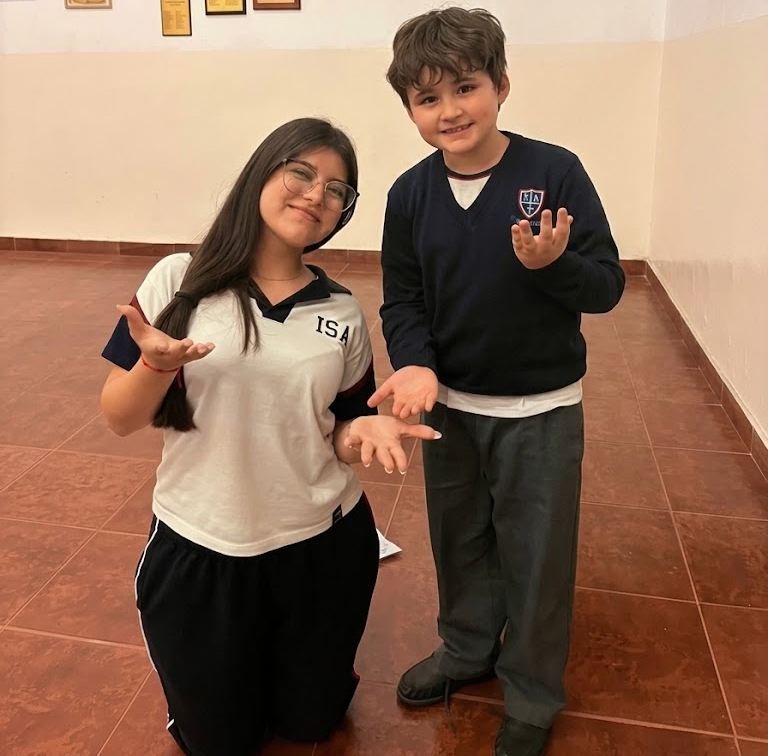
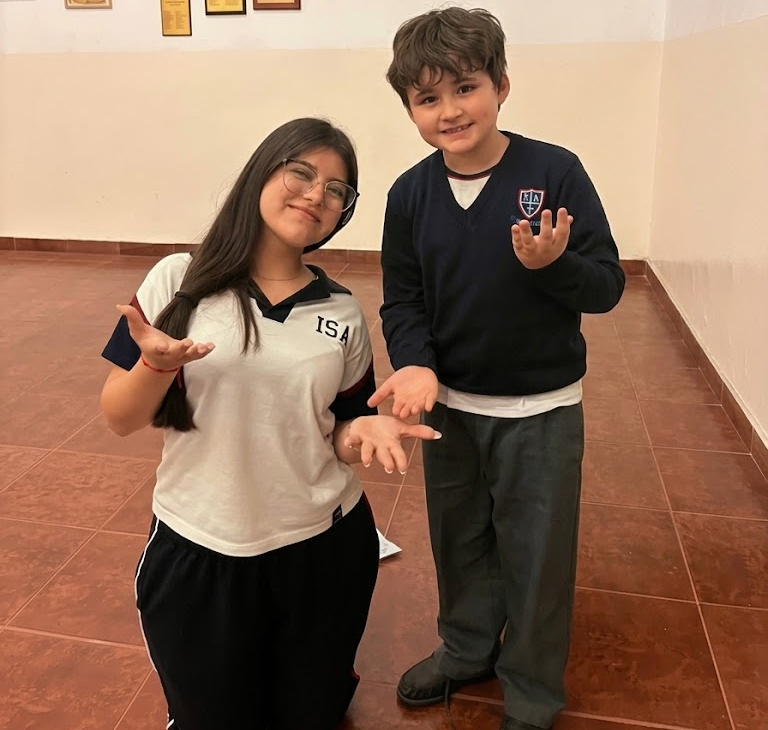
Noticias test

diff --git a/src/components/noticias/NoticiaDetalle.jsx b/src/components/noticias/NoticiaDetalle.jsx
@@ -1,18 +1,31 @@
 import React from 'react';
 import { useParams, Link } from 'react-router-dom';
-
-import Noticia1 from '../assets/images/landing/noticias/noticia-1.png';
-import Noticia2 from '../assets/images/landing/noticias/noticia-2.png';
-import Noticia3 from '../assets/images/landing/noticias/noticia-3.png';
-import Noticia4 from '../assets/images/landing/noticias/noticia-4.png';
-
 import noticiasData from '../../data/noticias.json';
 
-const imagenesNoticiasMap = {
-  noticia1: Noticia1,
-  noticia2: Noticia2,
-  noticia3: Noticia3,
-  noticia4: Noticia4,
+// Imágenes principales (portada / tarjeta)
+import Noticia1Img from '../assets/images/landing/noticias/noticia-1.png';
+import Noticia2Img from '../assets/images/landing/noticias/noticia-2.png';
+import Noticia3Img from '../assets/images/landing/noticias/noticia-3.png';
+import Noticia4Img from '../assets/images/landing/noticias/noticia-4.png';
+
+// Imágenes extra para el interior del texto
+import Extra1Img from '../assets/images/landing/noticias/extra-1.png';
+import Extra2Img from '../assets/images/landing/noticias/extra-2.png';
+import Extra3Img from '../assets/images/landing/noticias/extra-3.png';
+import Extra4Img from '../assets/images/landing/noticias/extra-4.png';
+
+const imagenesMap = {
+  noticia1: Noticia1Img,
+  noticia2: Noticia2Img,
+  noticia3: Noticia3Img,
+  noticia4: Noticia4Img,
+};
+
+const imagenesExtraMap = {
+  extra1: Extra1Img,
+  extra2: Extra2Img,
+  extra3: Extra3Img,
+  extra4: Extra4Img,
 };
 
 const crearSlug = (texto) => {
@@ -28,51 +41,73 @@ const crearSlug = (texto) => {
 const NoticiaDetalle = () => {
   const { slug } = useParams();
   
-  const noticia = noticiasData.find((item) => crearSlug(item.titulo) === slug);
+  const noticia = noticiasData.find((n) => crearSlug(n.titulo) === slug);
 
   if (!noticia) {
     return (
-      <div className="container py-5 text-center">
-        <h2>No se encontró la noticia solicitada</h2>
-        <Link to="/" className="btn btn-primary mt-3">
-          Volver al inicio
+      <div className="container my-5 text-center">
+        <h3 className="text-secondary">Noticia no encontrada</h3>
+        <Link to="/noticias" className="btn btn-primary mt-3" style={{ backgroundColor: '#334779', border: 'none' }}>
+          Volver a noticias
         </Link>
       </div>
     );
   }
 
-  const imagenSrc = imagenesNoticiasMap[noticia.imagenKey];
-
   return (
-    <div className="container py-5 my-4">
+    <div className="container my-5" style={{ maxWidth: '800px' }}>
+      <Link to="/noticias" className="btn btn-outline-secondary mb-4 btn-sm rounded-pill px-3">
+        ← Volver a noticias
+      </Link>
+
       <div className="mb-4">
-        <Link to="/noticias" className="btn btn-outline-secondary btn-sm">
-          &larr; Volver a noticias
-        </Link>
+        <span className="text-muted small">{noticia.fecha}</span>
+        <h1 className="fw-bold display-6 mt-1" style={{ color: '#334779' }}>{noticia.titulo}</h1>
       </div>
 
-      <div className="row align-items-center g-5">
-        {imagenSrc && (
-          <div className="col-lg-6 text-center">
-            <div className="p-2 bg-light rounded shadow-sm border">
-              <img 
-                src={imagenSrc} 
-                alt={noticia.titulo} 
-                className="img-fluid rounded" 
-                style={{ maxHeight: '500px', width: '100%', objectFit: 'contain' }}
-              />
-            </div>
-          </div>
-        )}
+      {/* Imagen Principal - Altura ampliada en PC (550px) */}
+      <div className="mb-4 rounded-3 overflow-hidden shadow-sm noticia-img-detalle-pc">
+        <img 
+          src={imagenesMap[noticia.imagenKey]} 
+          alt={noticia.titulo} 
+          className="w-100 object-fit-cover" 
+          style={{ height: '550px' }}
+        />
+      </div>
 
-        <div className={`col-lg-${imagenSrc ? '6' : '12'}`}>
-          <h1 className="fw-bold mb-4 text-dark">{noticia.titulo}</h1>
-          
-          <div className="noticia-contenido text-muted fs-6 lh-lg">
-            <p className="fw-semibold fs-5 text-dark mb-3">{noticia.resumen}</p>
-            {noticia.contenido && <p>{noticia.contenido}</p>}
-          </div>
-        </div>
+      {/* Recorrido de bloques de contenido */}
+      <div className="cuerpo-noticia">
+        {noticia.contenido.map((bloque, index) => {
+          if (bloque.tipo === 'parrafo') {
+            return (
+              <p key={index} className="text-secondary mb-4" style={{ fontSize: '1.05rem', lineHeight: '1.7' }}>
+                {bloque.texto}
+              </p>
+            );
+          }
+
+          if (bloque.tipo === 'imagen') {
+            return (
+              <figure key={index} className="my-5 text-center">
+                <div className="rounded-3 overflow-hidden shadow-sm mb-2 noticia-img-detalle-pc">
+                  <img 
+                    src={imagenesExtraMap[bloque.url]} 
+                    alt={bloque.caption || 'Imagen interior'} 
+                    className="w-100 object-fit-cover" 
+                    style={{ height: '500px' }}
+                  />
+                </div>
+                {bloque.caption && (
+                  <figcaption className="text-muted small fst-italic">
+                    {bloque.caption}
+                  </figcaption>
+                )}
+              </figure>
+            );
+          }
+
+          return null;
+        })}
       </div>
     </div>
   );

diff --git a/src/components/noticias/NoticiasList.jsx b/src/components/noticias/NoticiasList.jsx
@@ -1,9 +1,8 @@
 import React from 'react';
 import { useParams, Link, useNavigate } from 'react-router-dom';
 import noticiasData from '../../data/noticias.json';
-import './NoticiasList.css'; // Importamos el CSS unificado
+import './NoticiasList.css';
 
-// Importamos las imágenes desde tu estructura de carpetas
 import Noticia1Img from '../assets/images/landing/noticias/noticia-1.png';
 import Noticia2Img from '../assets/images/landing/noticias/noticia-2.png';
 import Noticia3Img from '../assets/images/landing/noticias/noticia-3.png';
@@ -46,27 +45,15 @@ const NoticiasList = () => {
         <hr className="w-25 mx-auto mt-3" style={{ backgroundColor: '#334779', height: '3px', opacity: 1 }} />
       </div>
 
-      {/* Contenedor principal en fila para PC y columna para móvil */}
       <div className="d-flex flex-column flex-lg-row gap-4 justify-content-center align-items-stretch overflow-auto pb-3">
         {currentNoticias.map((noticia) => {
           const slug = crearSlug(noticia.titulo);
           return (
-            <div 
-              className="card shadow-sm border-0 overflow-hidden rounded-3 noticia-card-item" 
-              key={noticia.id}
-            >
-              {/* Estructura interna controlada por el CSS */}
+            <div className="card shadow-sm border-0 overflow-hidden rounded-3 noticia-card-item" key={noticia.id}>
               <div className="card-body-wrapper d-flex flex-column flex-lg-column h-100">
-                
-                {/* Imagen */}
                 <div className="noticia-img-container">
-                  <img 
-                    src={imagenesMap[noticia.imagenKey]} 
-                    alt={noticia.titulo} 
-                  />
+                  <img src={imagenesMap[noticia.imagenKey]} alt={noticia.titulo} />
                 </div>
-
-                {/* Contenido */}
                 <div className="noticia-content-container card-body d-flex flex-column p-4 flex-grow-1">
                   <div>
                     <div className="d-flex align-items-center text-muted small mb-2">
@@ -78,16 +65,9 @@ const NoticiasList = () => {
                       </svg>
                       <span style={{ fontSize: '0.8rem' }}>{noticia.fecha}</span>
                     </div>
-
-                    <h3 className="fw-bold mb-2" style={{ color: '#2c3e50', fontSize: '1rem', lineHeight: '1.3' }}>
-                      {noticia.titulo}
-                    </h3>
-                    
-                    <p className="text-muted mb-4 flex-grow-1" style={{ fontSize: '0.85rem', lineHeight: '1.4' }}>
-                      {noticia.resumen}
-                    </p>
+                    <h3 className="fw-bold mb-2" style={{ color: '#2c3e50', fontSize: '1rem', lineHeight: '1.3' }}>{noticia.titulo}</h3>
+                    <p className="text-muted mb-4 flex-grow-1" style={{ fontSize: '0.85rem', lineHeight: '1.4' }}>{noticia.resumen}</p>
                   </div>
-                  
                   <div>
                     <Link 
                       to={`/noticias/detalle/${slug}`} 
@@ -98,37 +78,27 @@ const NoticiasList = () => {
                     </Link>
                   </div>
                 </div>
-
               </div>
             </div>
           );
         })}
       </div>
 
-      {/* Paginación */}
       {totalPages > 1 && (
         <nav className="d-flex justify-content-center mt-5">
           <ul className="pagination shadow-sm rounded-pill p-1 bg-white border">
             <li className={`page-item ${currentPage <= 1 ? 'disabled' : ''}`}>
-              <button 
-                className="page-link border-0 rounded-pill px-3 text-secondary" 
-                onClick={() => navigate(`/noticias/pagina/${currentPage - 1}`)}
-              >
+              <button className="page-link border-0 rounded-pill px-3 text-secondary" onClick={() => navigate(`/noticias/pagina/${currentPage - 1}`)}>
                 Anterior
               </button>
             </li>
-
             {Array.from({ length: totalPages }, (_, i) => {
               const pageNum = i + 1;
               return (
                 <li key={pageNum} className="page-item mx-1">
                   <Link 
                     className={`page-link border-0 rounded-circle d-flex align-items-center justify-content-center ${pageNum === currentPage ? 'text-white fw-bold' : 'text-secondary'}`}
-                    style={{ 
-                      width: '36px', 
-                      height: '36px', 
-                      backgroundColor: pageNum === currentPage ? '#334779' : 'transparent' 
-                    }}
+                    style={{ width: '36px', height: '36px', backgroundColor: pageNum === currentPage ? '#334779' : 'transparent' }}
                     to={`/noticias/pagina/${pageNum}`}
                   >
                     {pageNum}
@@ -136,12 +106,8 @@ const NoticiasList = () => {
                 </li>
               );
             })}
-
             <li className={`page-item ${currentPage >= totalPages ? 'disabled' : ''}`}>
-              <button 
-                className="page-link border-0 rounded-pill px-3 text-secondary" 
-                onClick={() => navigate(`/noticias/pagina/${currentPage + 1}`)}
-              >
+              <button className="page-link border-0 rounded-pill px-3 text-secondary" onClick={() => navigate(`/noticias/pagina/${currentPage + 1}`)}>
                 Siguiente
               </button>
             </li>

diff --git a/src/components/noticias/NoticiasList.css b/src/components/noticias/NoticiasList.css
@@ -1,5 +1,5 @@
 /* ==========================================
-   ESTILOS PARA COMPUTADORA (Escritorio)
+   ESTILOS GENERALES Y DE COMPUTADORA (Escritorio)
    ========================================== */
 .noticias-container {
   width: 100%;
@@ -29,20 +29,19 @@
 
 
 /* ==========================================
-   ESTILOS PARA TELÉFONOS (Móviles)
+   ESTILOS EXCLUSIVOS PARA TELÉFONOS (Móviles)
    ========================================== */
 @media (max-width: 991.98px) {
   .noticia-card-item .card-body-wrapper {
     display: flex !important;
     flex-direction: row !important;
-    align-items: stretch;
+    align-items: center !important;
   }
 
-  /* FORZAMOS una altura fija y cuadrada para que la imagen no crezca de más */
   .noticia-img-container {
     width: 130px !important;
     min-width: 130px !important;
-    height: 140px !important; /* Altura controlada y fija en celular */
+    height: 130px !important;
   }
 
   .noticia-img-container img {
@@ -54,7 +53,11 @@
     flex: 1;
     display: flex;
     flex-direction: column;
-    justify-content: space-between;
+    justify-content: flex-start !important;
     padding: 10px 12px !important;
+  }
+
+  .noticia-content-container .btn {
+    margin-top: 8px !important;
   }
 }
